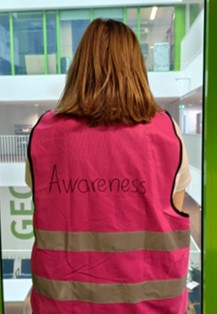
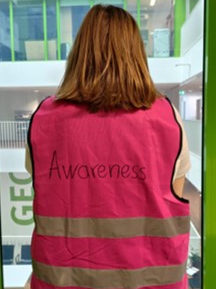
adjusted image layout

diff --git a/src/app/(geoloek)/wp/geoloek/awareness/page.js b/src/app/(geoloek)/wp/geoloek/awareness/page.js
@@ -1,7 +1,10 @@
 import styles from "@/app/page.module.css";
+import localStyles from "./page.module.css"
+
 import Image from 'next/image'
 import Awareness_1 from './Awareness_1.jpg'
 import Awareness_2 from './Awareness_2.jpg'
+
 export default function Page() {
     return (
         <>
@@ -66,24 +69,22 @@ export default function Page() {
                     <li>Licherketten</li>
                     <li>Luisa-ist-hier-Schilder</li>
                 </ul>
-                <div className="image-container">
-                    <figure>
+                <div className={localStyles.imagecontainer}>
+                    <figure className={localStyles.figureBox}>
                         <Image
-                            src={Awareness_1.src} // Die URL des Bildes
+                            src={Awareness_1} // Die URL des Bildes
                             alt="Bild der Awareness-Warnweste" // Alternativtext
-                            width={200}
-                            height={300}
+                            className={localStyles.figure}
                         />
-                        <figcaption>Awareness-Warnweste</figcaption>
+                        <figcaption className={localStyles.caption}>Awareness-Warnweste</figcaption>
                     </figure>
-                    <figure>
+                    <figure className={localStyles.figureBox}>
                         <Image
-                            src={Awareness_2.src} // Die URL des Bildes
+                            src={Awareness_2} // Die URL des Bildes
                             alt="Bild der Awareness-Lichterkette" // Alternativtext
-                            width={200}
-                            height={300}
+                            className={localStyles.figure}
                         />
-                        <figcaption>Awareness-Licherkette</figcaption>
+                        <figcaption className={localStyles.caption}>Awareness-Licherkette</figcaption>
                     </figure>
                 </div>
                 <div className={styles.Textblock}>

diff --git a/src/app/(geoloek)/wp/geoloek/awareness/page.module.css b/src/app/(geoloek)/wp/geoloek/awareness/page.module.css
@@ -1,0 +1,26 @@
+.imagecontainer {
+    width: 75%;
+    margin: auto;
+    display: flex;
+}
+
+.figureBox {
+    flex: 50%;
+    padding: 5px;
+}
+
+.figure {
+    width: 100%;
+    height: auto;
+}
+
+.caption {
+    text-align: center;
+}
+
+/* Responsive layout - makes the three columns stack on top of each other instead of next to each other */
+@media screen and (max-width: 855px) {
+    .imagecontainer {
+        width: 100%;
+    }
+}
